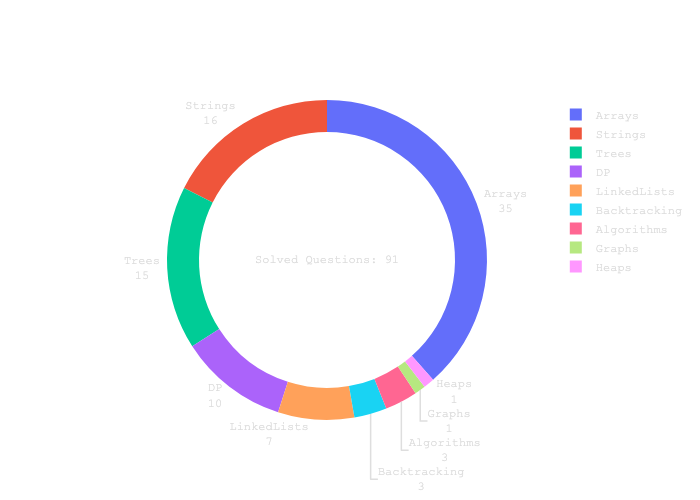
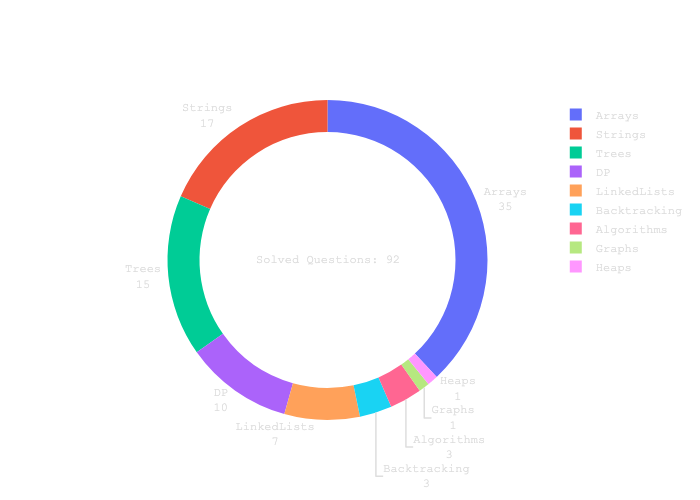
reorganize string

diff --git a/Strings/reorganizeString.py b/Strings/reorganizeString.py
@@ -1,0 +1,31 @@
+from heapq import heapify, heappush, heappop
+
+
+def reorganizeString(s: str) -> str:
+    occurances = {}
+    for i in s:
+        occurances[i] = occurances.get(i, 0) + 1
+
+    heap = [(-count, char) for char, count in occurances.items()]
+    heapify(heap)
+
+    res = ""
+    prev = None
+
+    while heap:
+        count, char = heappop(heap)
+        res += char
+
+        if prev:
+            heappush(heap, prev)
+            prev = None
+
+        if count + 1 < 0:
+            prev = (count + 1, char)
+    return res if len(res) == len(s) else ""
+
+
+print(reorganizeString("aab"))
+print(reorganizeString("vvvlo"))
+print(reorganizeString("aaabbc"))
+print(reorganizeString("aaaaabbbbccc"))
